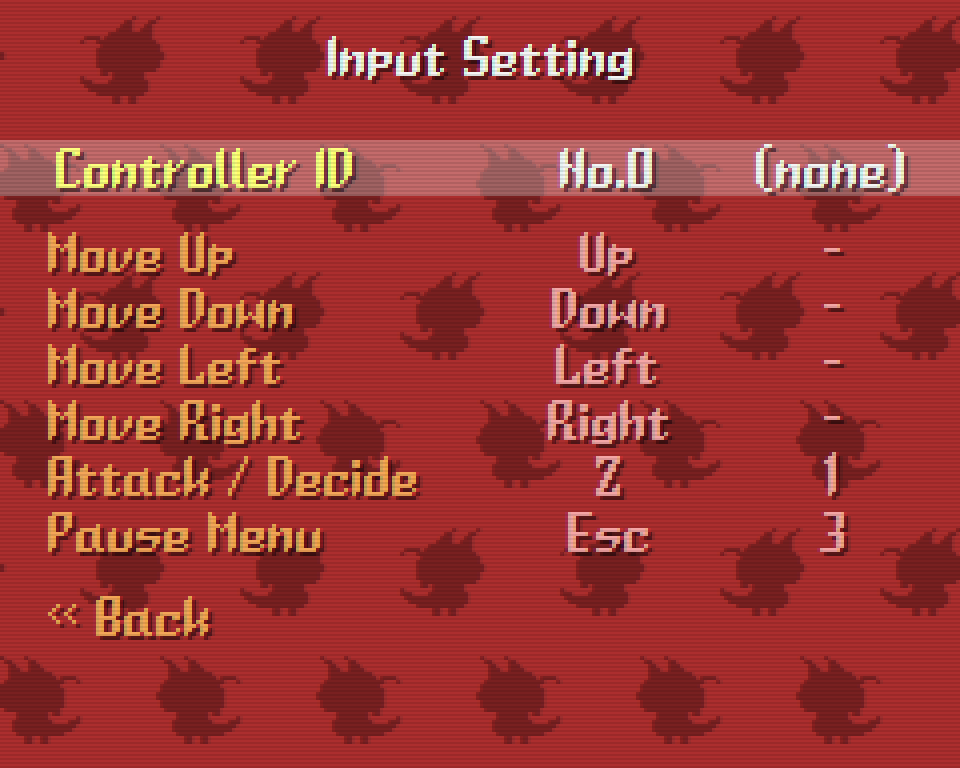
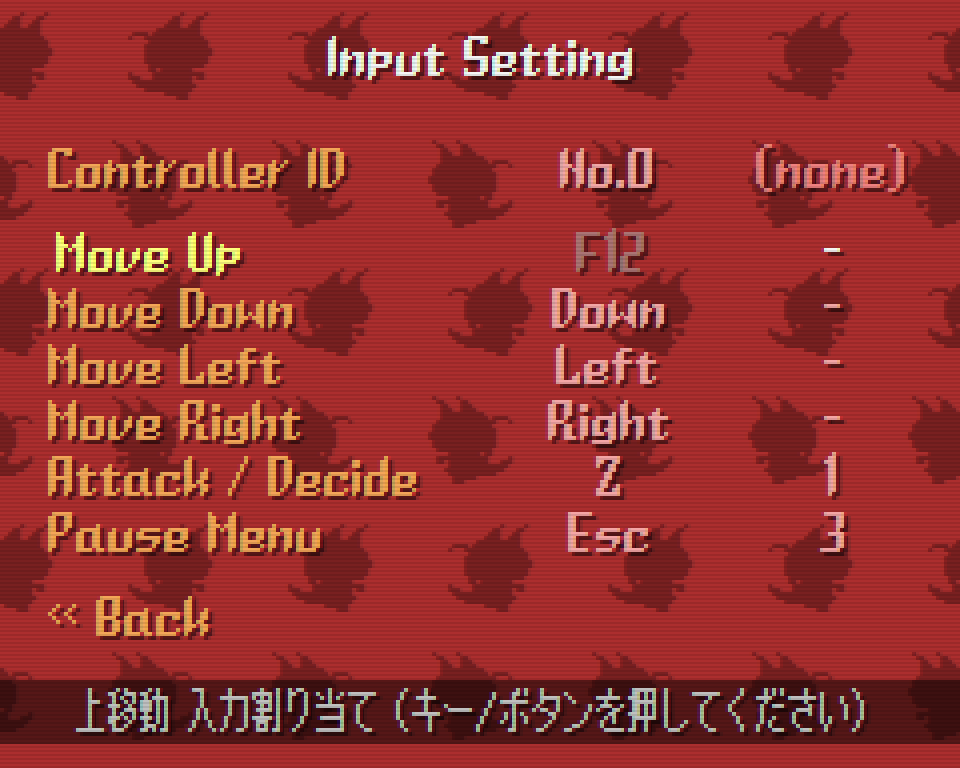
オプション画面などの説明

diff --git a/Spiceholic2025/Scene/InputSettingScene.cpp b/Spiceholic2025/Scene/InputSettingScene.cpp
@@ -44,17 +44,18 @@ namespace Spiceholic
 			Type type;
 			StringView text;
 			Action action;
+			StringView desc;
 		};
 
 		constexpr std::array<InputSettingField, 8> SettingFieldList = { {
-			{ InputSettingField::Type::Controller, U"Controller ID"_sv, Action::Invalid },
-			{ InputSettingField::Type::Binding, U"Move Up"_sv, Action::MoveUp },
-			{ InputSettingField::Type::Binding, U"Move Down"_sv, Action::MoveDown },
-			{ InputSettingField::Type::Binding, U"Move Left"_sv, Action::MoveLeft },
-			{ InputSettingField::Type::Binding, U"Move Right"_sv, Action::MoveRight },
-			{ InputSettingField::Type::Binding, U"Attack / Decide"_sv, Action::Attack },
-			{ InputSettingField::Type::Binding, U"Pause Menu"_sv, Action::Pause },
-			{ InputSettingField::Type::Back, U"<< Back"_sv, Action::Invalid },
+			{ InputSettingField::Type::Controller, U"Controller ID"_sv, Action::Invalid, U"使用するコントローラを変更します（左右キーで切替）"_sv },
+			{ InputSettingField::Type::Binding, U"Move Up"_sv, Action::MoveUp, U"上移動 入力割り当て（キー/ボタンを押してください）"_sv },
+			{ InputSettingField::Type::Binding, U"Move Down"_sv, Action::MoveDown, U"下移動 入力割り当て（キー/ボタンを押してください）"_sv },
+			{ InputSettingField::Type::Binding, U"Move Left"_sv, Action::MoveLeft, U"左移動 入力割り当て（キー/ボタンを押してください）"_sv },
+			{ InputSettingField::Type::Binding, U"Move Right"_sv, Action::MoveRight, U"右移動 入力割り当て（キー/ボタンを押してください）"_sv },
+			{ InputSettingField::Type::Binding, U"Attack / Decide"_sv, Action::Attack, U"攻撃/決定 入力割り当て（キー/ボタンを押してください）"_sv },
+			{ InputSettingField::Type::Binding, U"Pause Menu"_sv, Action::Pause, U"ポーズ 入力割り当て（キー/ボタンを押してください）"_sv },
+			{ InputSettingField::Type::Back, U"<< Back"_sv, Action::Invalid, U"タイトルに戻ります"_sv },
 		} };
 
 		void ChangeSettingValue(ActionInput& actionInput, const InputSettingField& targetField, int32 valueDiff1_1)
@@ -291,6 +292,14 @@ namespace Spiceholic
 
 				const String buttonName = IsMoveAction(item.action) ? U"-" : GetInputName(tempButtonBindings_.at(item.action));
 				DrawText(U"px7812", buttonName, Arg::center = Vec2{ Layout::ButtonColumnCenterX + vibrateX, posY }, buttonColor);
+			}
+
+			// 説明
+			if (selected)
+			{
+				const Vec2 descCenter = SceneRect.center().withY(SceneSize.y - Layout::LineHeight * 1);
+				RectF{ Arg::center = descCenter, SizeF{ SceneSize.x, 16 } }.draw(ColorF{ Palette::Black, 0.5 });
+				DrawText(U"px7812", item.desc, Arg::center = descCenter, Palette::Silver);
 			}
 		}
 	}

diff --git a/Spiceholic2025/Scene/OptionScene.cpp b/Spiceholic2025/Scene/OptionScene.cpp
@@ -32,14 +32,15 @@ namespace Spiceholic
 		struct SettingField
 		{
 			UserSettingField field;
+			StringView desc;
 		};
 
 		constexpr std::array<SettingField, 5> SettingFieldList = { {
-			{ UserSettingField::WindowScale },
-			{ UserSettingField::SEVolume },
-			{ UserSettingField::BGMVolume },
-			{ UserSettingField::UseEffect },
-			{ UserSettingField::Back },
+			{ UserSettingField::WindowScale, U"画面サイズを変更します（左右キーで切替）"_sv },
+			{ UserSettingField::SEVolume, U"効果音の音量を変更します（左右キーで切替）"_sv  },
+			{ UserSettingField::BGMVolume, U"BGMの音量を変更します（左右キーで切替）"_sv  },
+			{ UserSettingField::UseEffect, U"画面のエフェクト使用を切り替えます（左右キーで切替）"_sv  },
+			{ UserSettingField::Back, U"タイトルに戻ります"_sv  },
 		} };
 
 		void ChangeSettingValue(UserSetting& setting, const SettingField& targetField, int32 valueDiff1_1)
@@ -182,7 +183,7 @@ namespace Spiceholic
 				for (int iX = -1; iX <= NX; ++iX)
 				{
 					const bool evenRow = (iY % 2 == 0);
-					const bool evenCol = (iX % 2 == 0);
+					//const bool evenCol = (iX % 2 == 0);
 					const Vec2 charaPos{
 						SceneSize.x / NX * (iX + Periodic::Sawtooth0_1(1s) * (evenRow ? 1 : -1)),
 						SceneSize.y / NY * (iY + 0.5) };
@@ -213,6 +214,14 @@ namespace Spiceholic
 			const double valueShiftX = valueChanged ? 2 * Periodic::Sine1_1(0.01s) : 0;
 			const ColorF valueColor = valueChanged ? Theme::ValueColor.lerp(Palette::Black, 0.5).lerp(Theme::ValueChangeColor, Periodic::Square0_1(0.034s)) : (selected ? Theme::SelectedColor : Theme::ValueColor);
 			DrawSettingField(*getData().userSetting, field, fieldCenterY, labelShiftX, valueShiftX, labelColor, valueColor);
+
+			// 説明
+			if (selected)
+			{
+				const Vec2 descCenter = SceneRect.center().withY(SceneSize.y - Layout::LineHeight * 1);
+				RectF{ Arg::center = descCenter, SizeF{ SceneSize.x, 16 } }.draw(ColorF{ Palette::Black, 0.5 });
+				DrawText(U"px7812", field.desc, Arg::center = descCenter, Palette::Silver);
+			}
 		}
 	}
 }

diff --git a/Spiceholic2025/Main.cpp b/Spiceholic2025/Main.cpp
@@ -154,7 +154,7 @@ void Main()
 	App app{ gameData };
 	RegisterScenes<LogoScene, TitleScene, OptionScene, InputSettingScene, MainScene, RecordsScene>(app);
 	app.setFadeColor(DefaultBgColor);
-	app.init(LogoScene::Name, 0s);
+	app.init(InputSettingScene::Name, 0s);
 
 	// ウィンドウスケール設定変更を監視
 	int32 previousScale = gameData->userSetting->get().windowScale;
